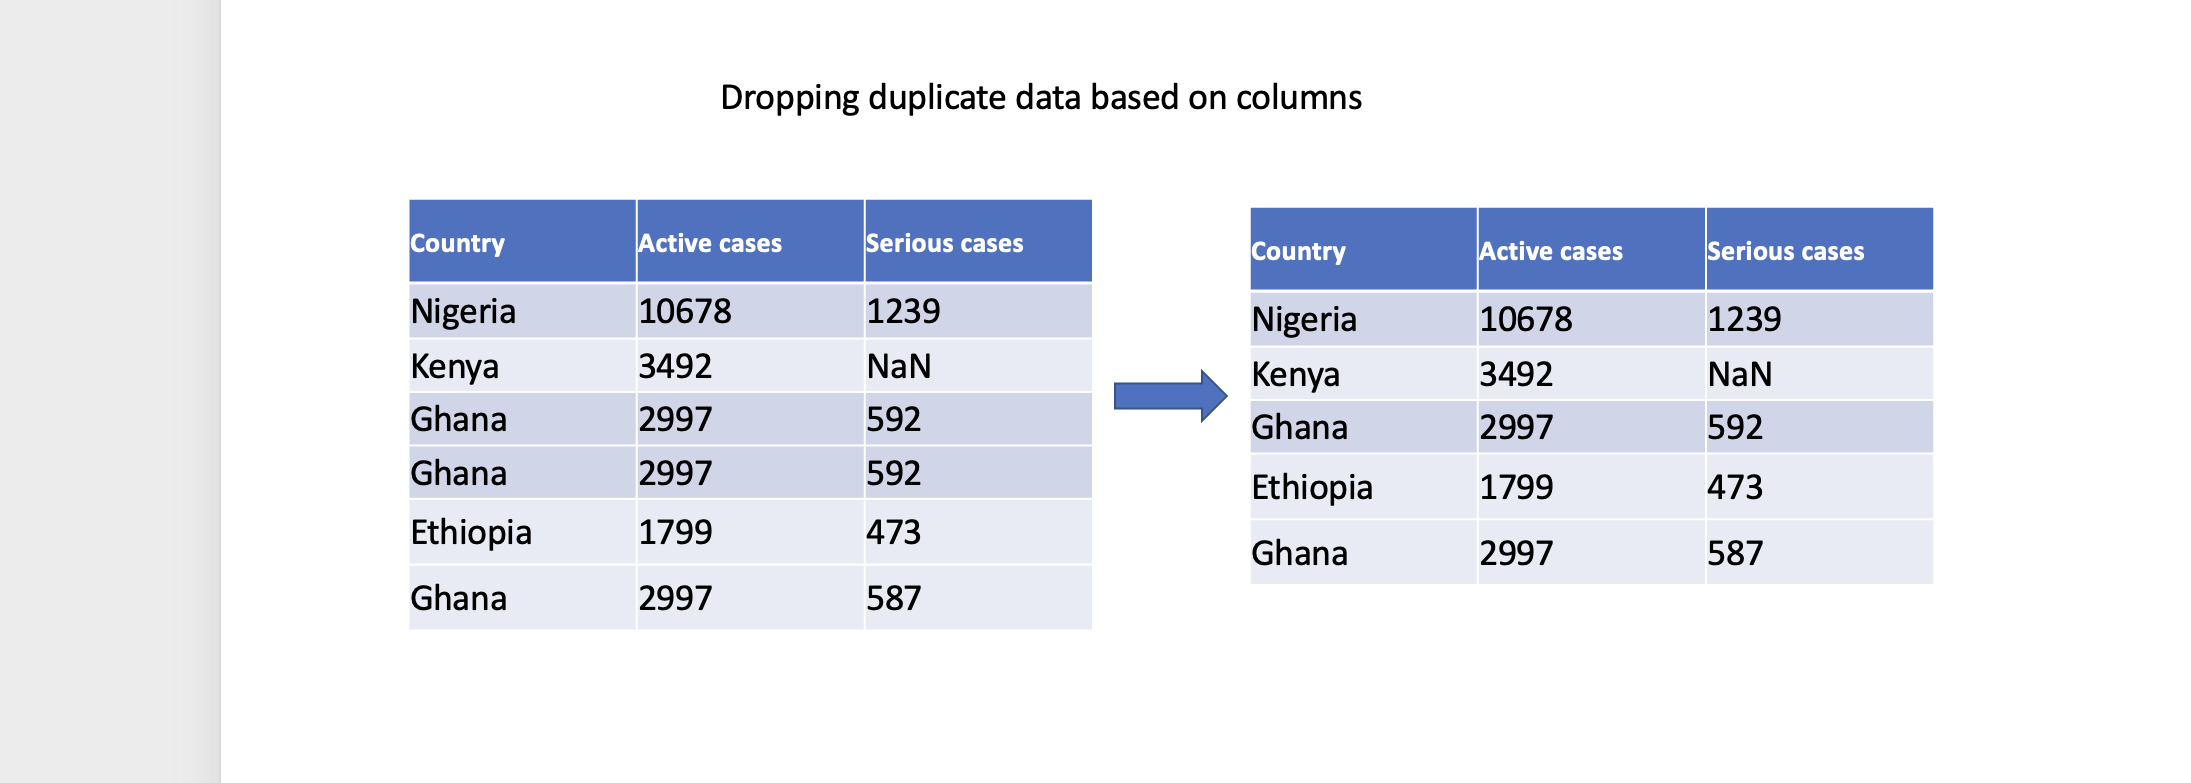
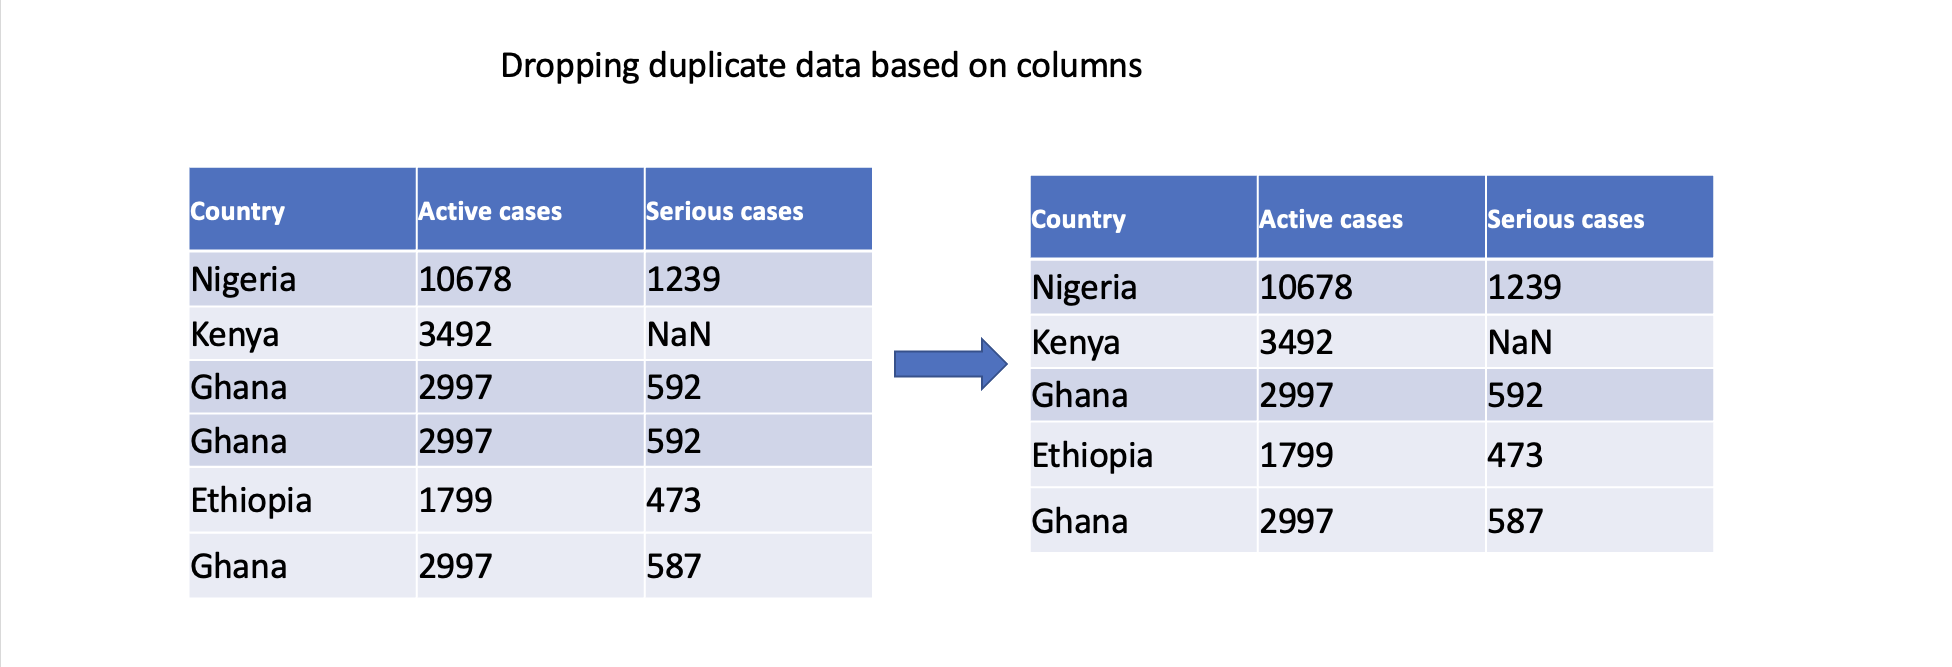
updated lesson 2.3

diff --git a/src/lessons/data-cleaning/data-cleaning.md b/src/lessons/data-cleaning/data-cleaning.md
@@ -1,5 +1,5 @@
 # 🔢 Data cleaning techniques
-As a data scientist, we'll be working with lots of messy (or smelling 😖) data everyday. However, it is critical to ensure the accuracy, reliability, and integrity of the data by carefully _cleaning_ the data (without water 😁). In this lesson, we'll be looking at different data cleaning techniques needed to get the data ready for further analysis. First, we'll start by exploring techniques needed to handle `missing data`. Next, we'll see how to handle `duplicate` data. Lastly, we'll learn how to handle incosistent data formats like `dates`.
+As a data scientist, we'll be working with lots of messy (or smelling 😖) data everyday. However, it is critical to ensure the accuracy, reliability, and integrity of the data by carefully _cleaning_ the data (without water 😁). In this lesson, we'll be looking at different data cleaning techniques needed to get the data ready for further analysis. First, we'll start by exploring techniques needed to handle `missing data`, and then we'll dive into what to do with `duplicate` data. 
 
 <img src="./data-cleaning/data-cleaning-techniques.jpeg" height="300px" width="100%">
 
@@ -123,25 +123,18 @@ We can also specify specific columns to determine duplicates. Only rows with ide
 
 ![drop-duplicate-column](./data-cleaning/drop-duplicate-column.png)
 
-In summary, addressing duplicate data is crucial to ensuring accurate analysis, maintain data integrity, derive reliable insights, and support consistent decision-making. By effectively handling duplicate data, we can work with clean and reliable datasets, leading to more robust and trustworthy analysis outcomes.
+In conclusion, addressing duplicate data is crucial to ensuring accurate analysis, maintain data integrity, derive reliable insights, and support consistent decision-making. By effectively handling duplicate data, we can work with clean and reliable datasets, leading to more robust and trustworthy analysis outcomes.
 
 
 
 
-### 👩🏾🎨 Practice: ------------------------------- 🎯
-<!-- In this exercise, you'll access data from sample APIs using your browser. With this, you'll have hands-on experience on JSON and XML data. Try the following in your browser.
-1. Open your browser
-2. copy and paste each of the url below in your browser <br>
+### 👩🏾🎨 Practice: COVID-19 Dataset 🎯
+In this exercise, you'll practice the techniques you've learnt so far. Using the COVID-19 dataset, try the following... 
+1. Identify a column with missing data, and try the above techniques for handling missing data.
+2. Are there duplicate rows in the dataset? If yes, remove the duplicates by specifying the column with duplicates.
+3. Insert a snippet of your cleaned dataset in the padlet below.
     
-    <aside>
-    
-    1. [https://api.unibit.ai/v2/stock/historical/?tickers=AAPL&accessKey=demo](https://api.unibit.ai/v2/stock/historical/?tickers=AAPL&accessKey=demo)
-    2. [http://restapi.adequateshop.com/api/Traveler?page=1](http://restapi.adequateshop.com/api/Traveler?page=1)
-
-    </aside>
-
-3. Describe what each data from the APIs is all about in the padlett below
     **[https://padlet.com/curriculumpad/draw-the-building-blocks-b1yn0aft11t9n4ox](https://padlet.com/curriculumpad/draw-the-building-blocks-b1yn0aft11t9n4ox)**
 
-> ➡ In the next section, you'll be introduced to `data loading` and `data exploration` 🏙. -->
+> ➡ In the next section, you'll be introduced to  `Data Normalization` and `Transformation`.
 

diff --git a/src/lessons/data-visualization.md b/src/lessons/data-visualization.md
@@ -1,0 +1,28 @@
+# Data Visualization and Insight 📶
+
+![data-cleaning](./data-visualization/Data-Visualization.jpeg)
+
+**Welcome to week 3 of the Intro to data science course!** In the second week, we looked at different data sources and how to collect data from theses sources. We went further to explore different data cleaning techniques, and how to normalize and transform our data. 
+
+This week, we'll begin our journey of data visulization 😍 by looking at what it is, and different ways of visualizing data. Next, we'll look at methods of creating different visualization plots. Finally, we'll explore different techniques of generating insight from data, and how to communicate insight to stakeholders.
+
+
+## Learning Outcomes
+
+After this week, you will be able to:
+
+- Understand the basics and importance of data visualization.
+- Learn how to create basic plots.
+- Learn how to generate insights from data.
+- Understand how to communicate insight to stakeholders.
+
+
+
+### An overview of this week's lesson
+
+<aside>
+
+Watch the video below to get an overview of the coming week.
+
+</aside>
+<div style="position: relative; padding-bottom: 56.25%; height: 0;"><iframe width="100%" height="415" src="https://www.youtube.com/embed/1GhghjgJTuanORg0" title="Linking your CSS" frameborder="0" allow="accelerometer; autoplay; clipboard-write; encrypted-media; gyroscope; picture-in-picture" allowfullscreen></iframe></div>

diff --git a/src/lessons/data-cleaning/data-transformation.md b/src/lessons/data-cleaning/data-transformation.md
@@ -1,0 +1,15 @@
+# ♻ Normalization & Transformation 
+As a data scientist, 
+
+
+
+<!-- ### 👩🏾🎨 Practice: COVID-19 Dataset 🎯
+In this exercise, you'll practice the techniques you've learnt so far. Using the COVID-19 dataset, try the following... 
+1. Identify a column with missing data, and try the above techniques for handling missing data.
+2. Are there duplicate rows in the dataset? If yes, remove the duplicates by specifying the column with duplicates.
+3. Insert a snippet of your cleaned dataset in the padlet below.
+    
+    **[https://padlet.com/curriculumpad/draw-the-building-blocks-b1yn0aft11t9n4ox](https://padlet.com/curriculumpad/draw-the-building-blocks-b1yn0aft11t9n4ox)**
+
+> ➡ In the next section, you'll be introduced to  `Data Normalization` and `Transformation`. -->
+

diff --git a/src/SUMMARY.md b/src/SUMMARY.md
@@ -25,9 +25,21 @@
     - [Data sources and collection](./lessons/data-cleaning/data-sources.md)
     - [Data loading & exploration](./lessons/data-cleaning/data-loading.md)
     - [Data cleaning techniques](./lessons/data-cleaning/data-cleaning.md)
-    - [Normalization and transformation]()
+    - [Data normalization](./lessons/data-cleaning/data-transformation.md)
     - [Statistical analysis]()
     - [Practices]()
     - [Assignment]()
     - [Bonus: GDPR and data privacy]() 
+
+### Week 3
+
+- [Data Visualization & Insight](lessons/data-visualization.md)
+    - [Data visualization]()
+    - [Creating basic plots]()
+    - [Insight and reporting]()
+    - [Communicating your insight]()
+    - [Practices]()
+    - [Assignment]()
+    - [Bonus: GDPR and data privacy]()
+
 ...
